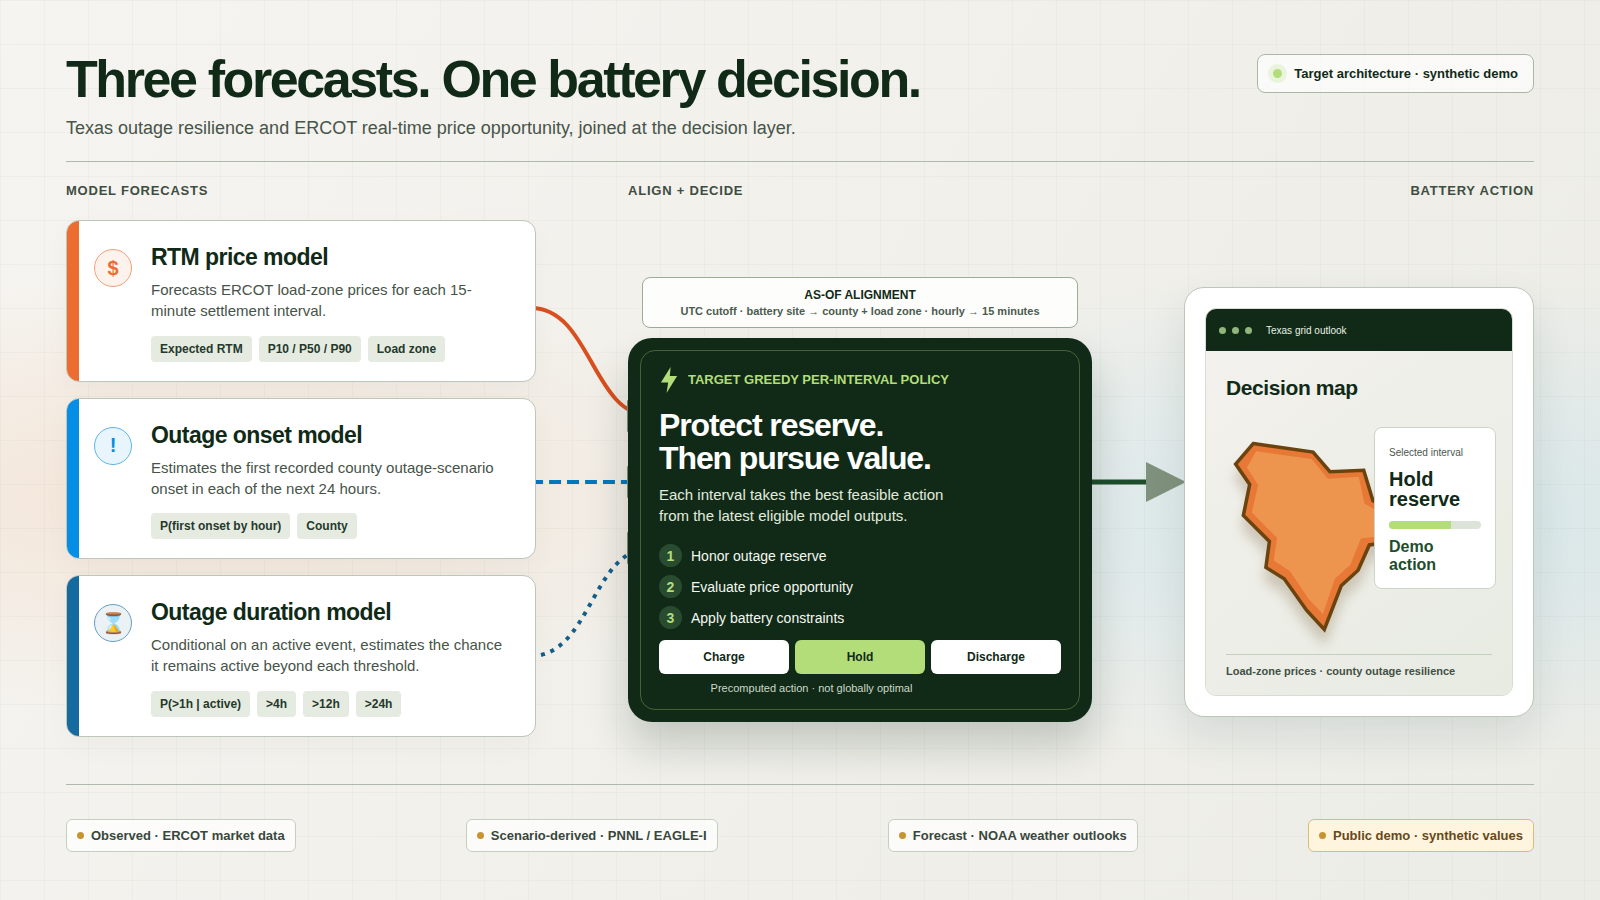
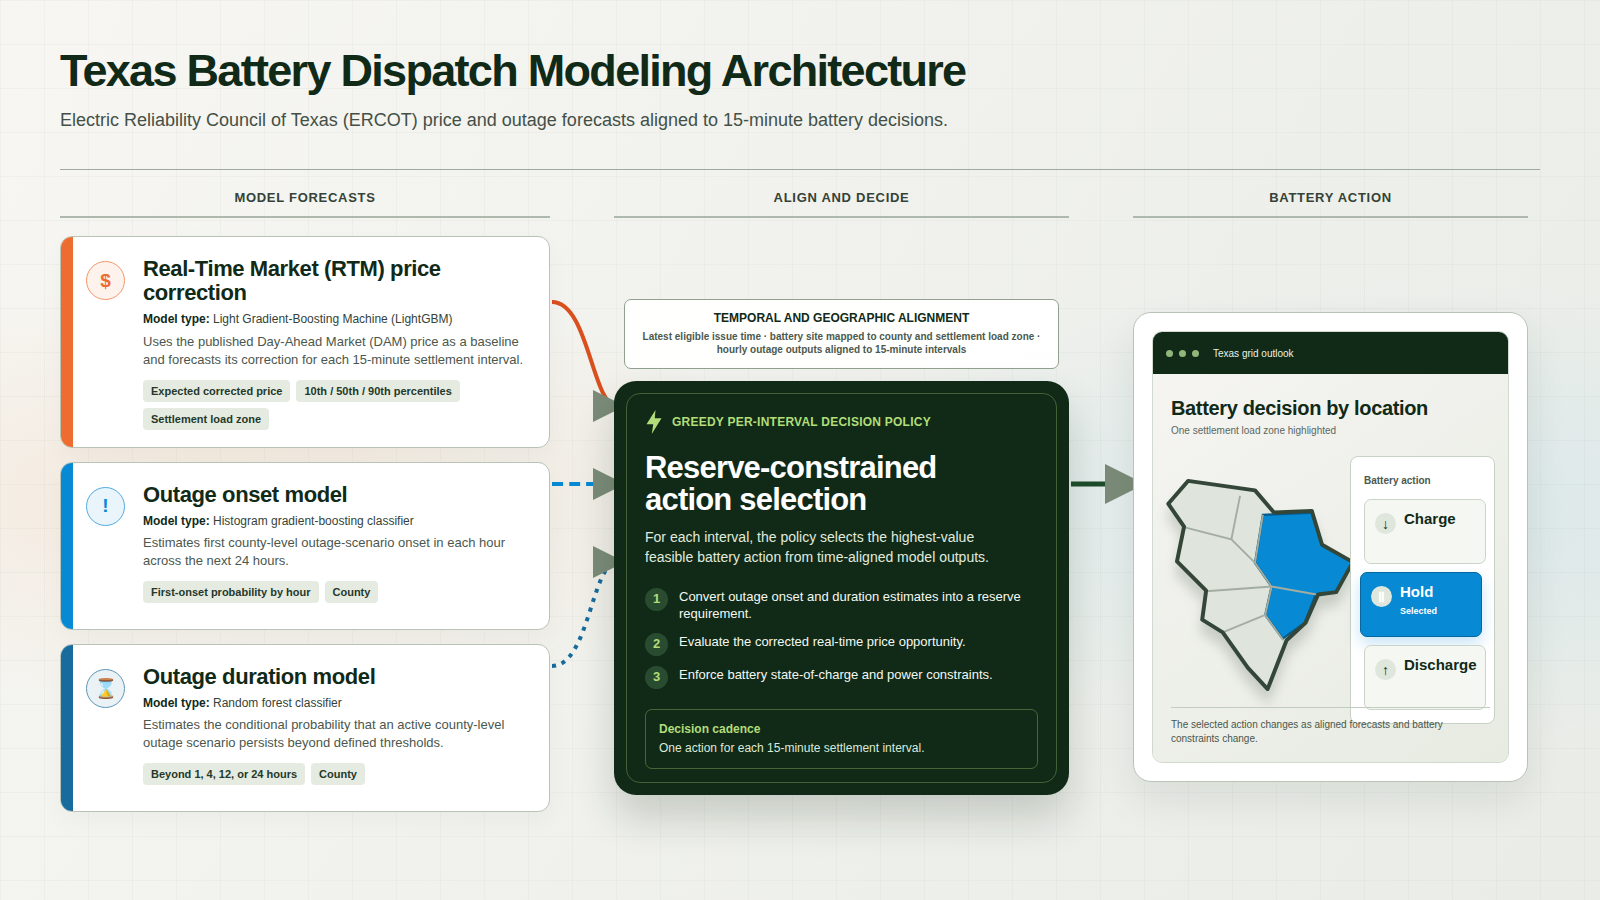
docs: animate battery decision architecture

diff --git a/README.md b/README.md
@@ -15,12 +15,12 @@ Open <http://127.0.0.1:8099>. Choose **Dummy data** for the bundled repeatable d
 ## Tech stack & architecture diagram
 
 - **Demo:** native HTML, CSS, JavaScript modules, SVG, and JSON; no runtime packages.
-- **Models:** Python, pandas, scikit-learn, LightGBM, and CatBoost in the upstream research pipeline.
+- **Models:** Python, pandas, scikit-learn, Light Gradient-Boosting Machine (LightGBM), and CatBoost in the upstream research pipeline.
 - **Decision layer:** the target greedy policy prioritizes outage reserve, then price opportunity and battery constraints.
 
 <picture>
-  <source media="(max-width: 600px)" srcset="assets/architecture-mobile.png">
-  <img src="assets/architecture.png" alt="Target architecture: three predictive models feed a greedy battery policy and the Texas map demo">
+  <source media="(prefers-reduced-motion: reduce)" srcset="assets/architecture.png">
+  <img src="assets/architecture.gif" alt="Architecture showing a Real-Time Market price correction model, outage-onset model, and outage-duration model aligned by time and geography before a greedy policy cycles among Charge, Hold, and Discharge for one highlighted Texas settlement load zone">
 </picture>
 
 The public repository contains the runnable demo surface only. An external or future pipeline can write a versioned `frontend/data/model-output.json`; the bundled demo instead uses clearly labeled synthetic data.
